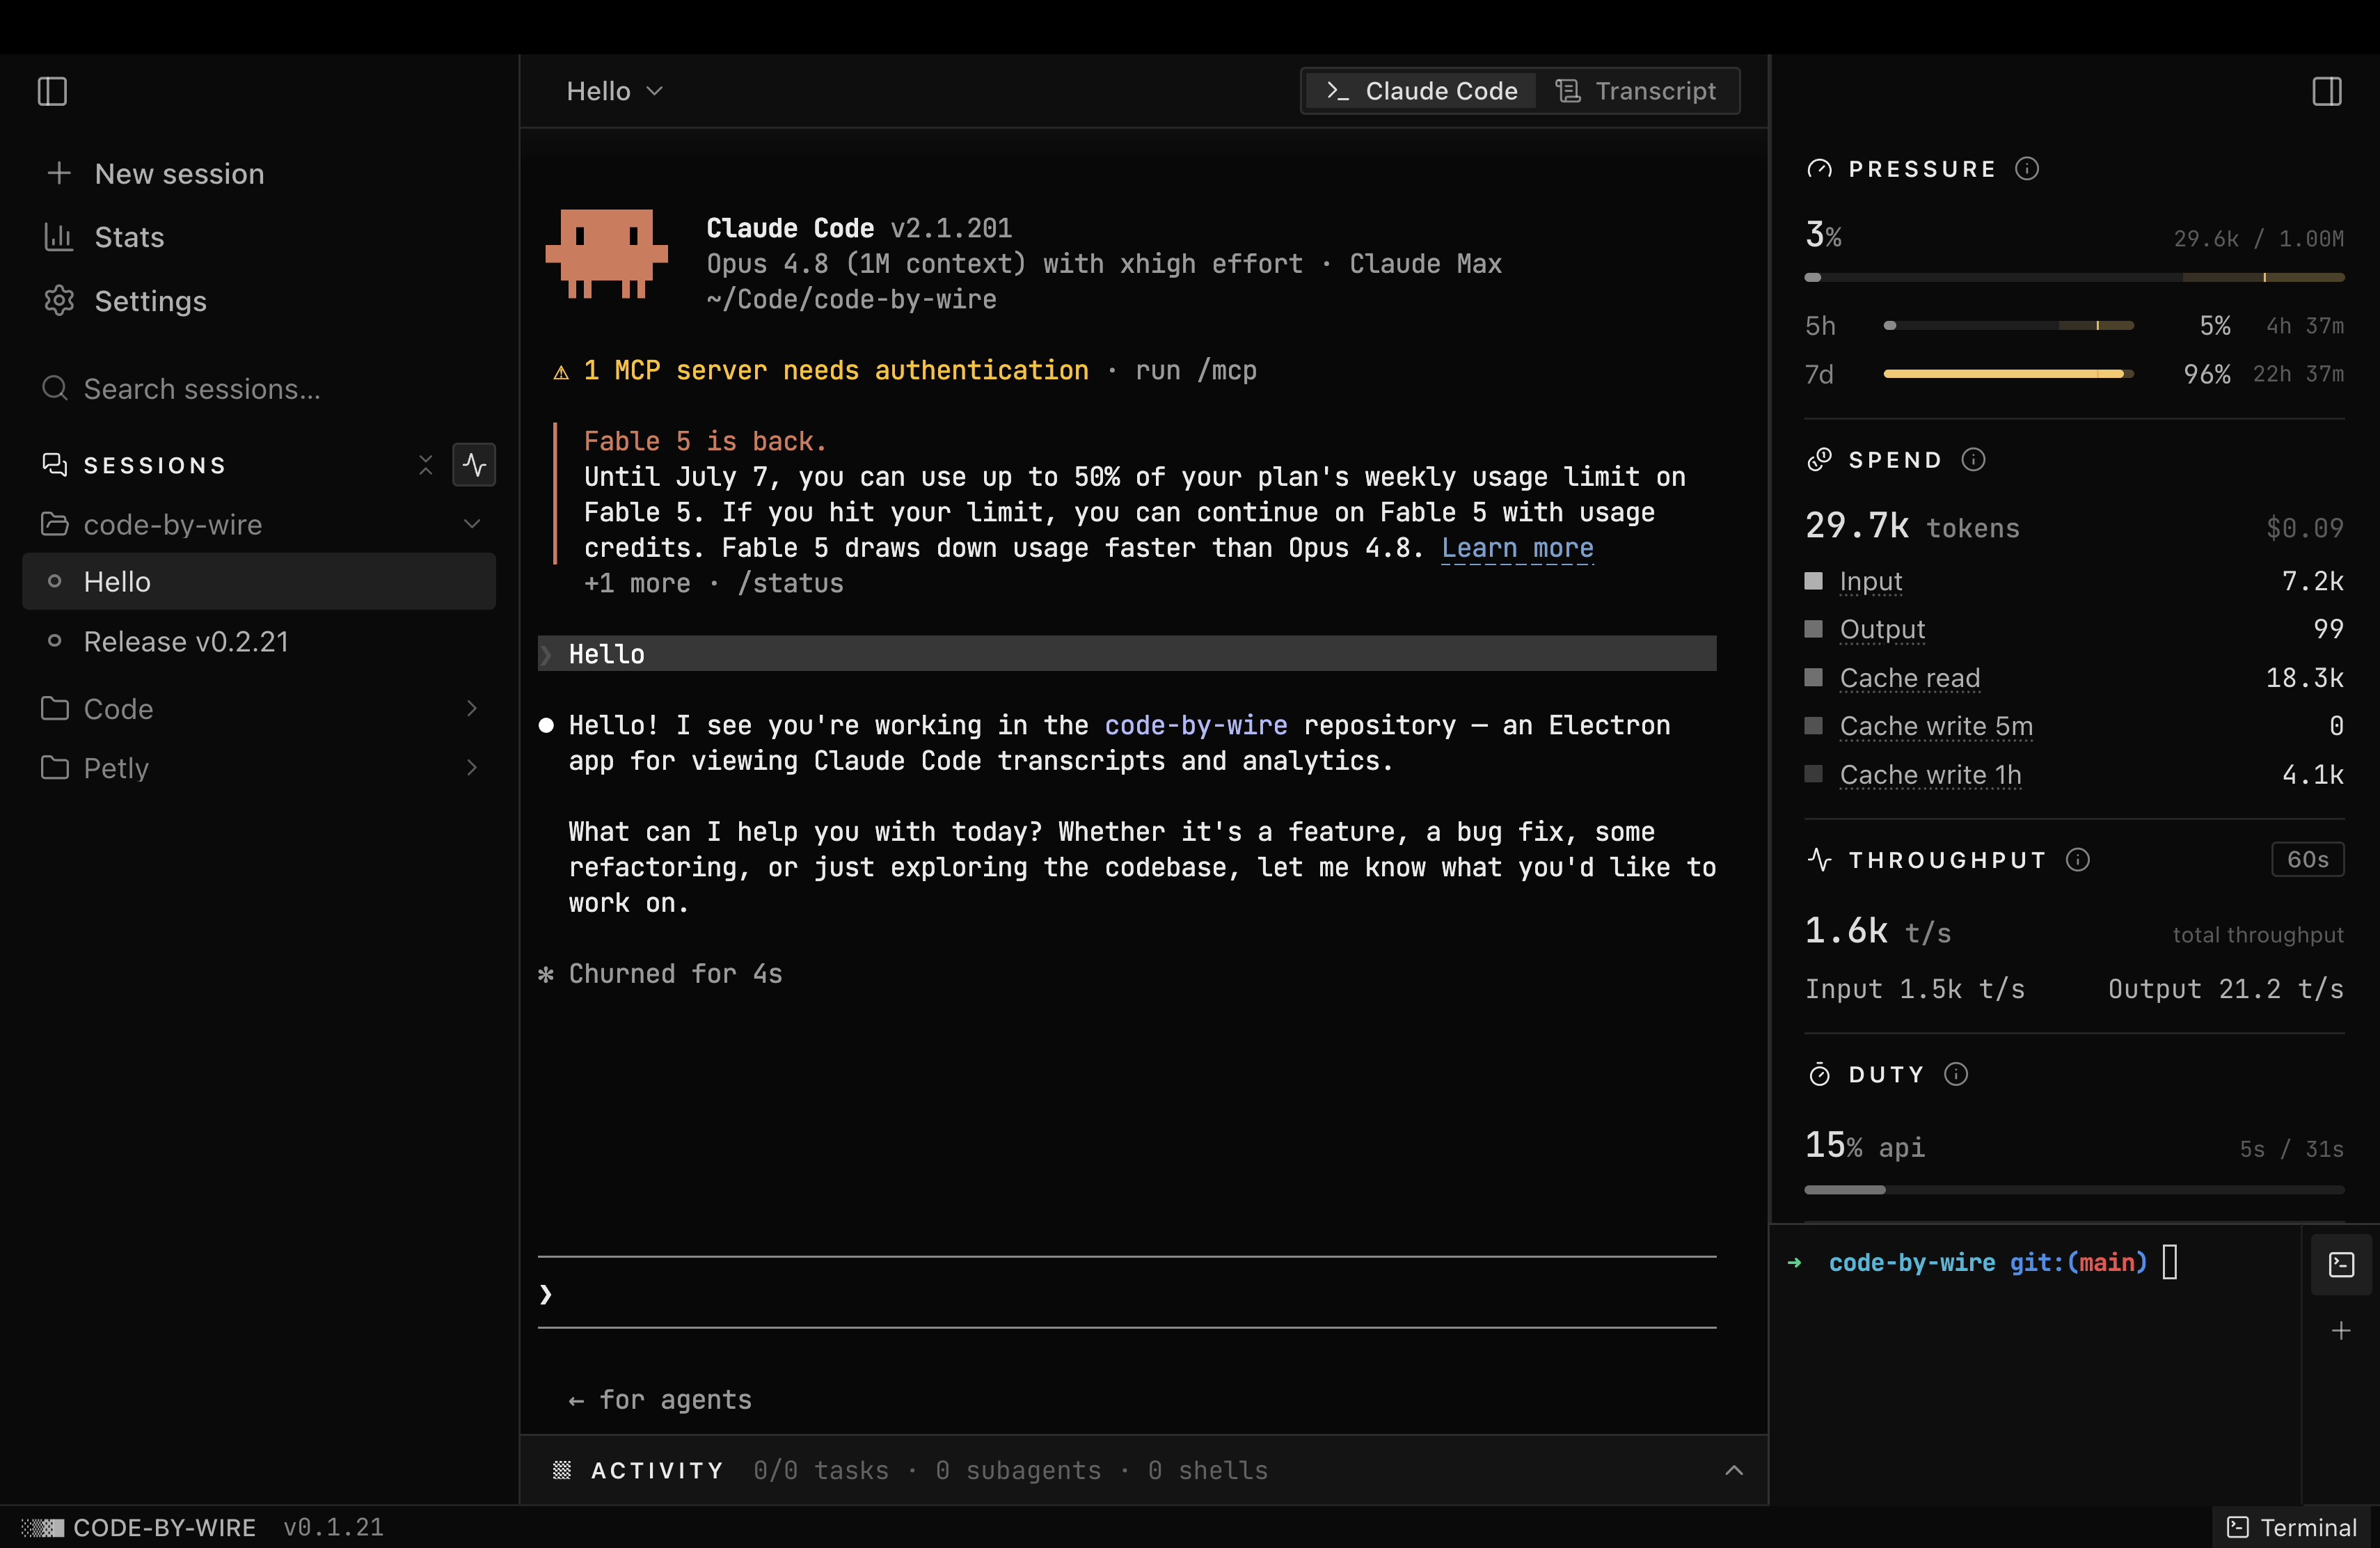
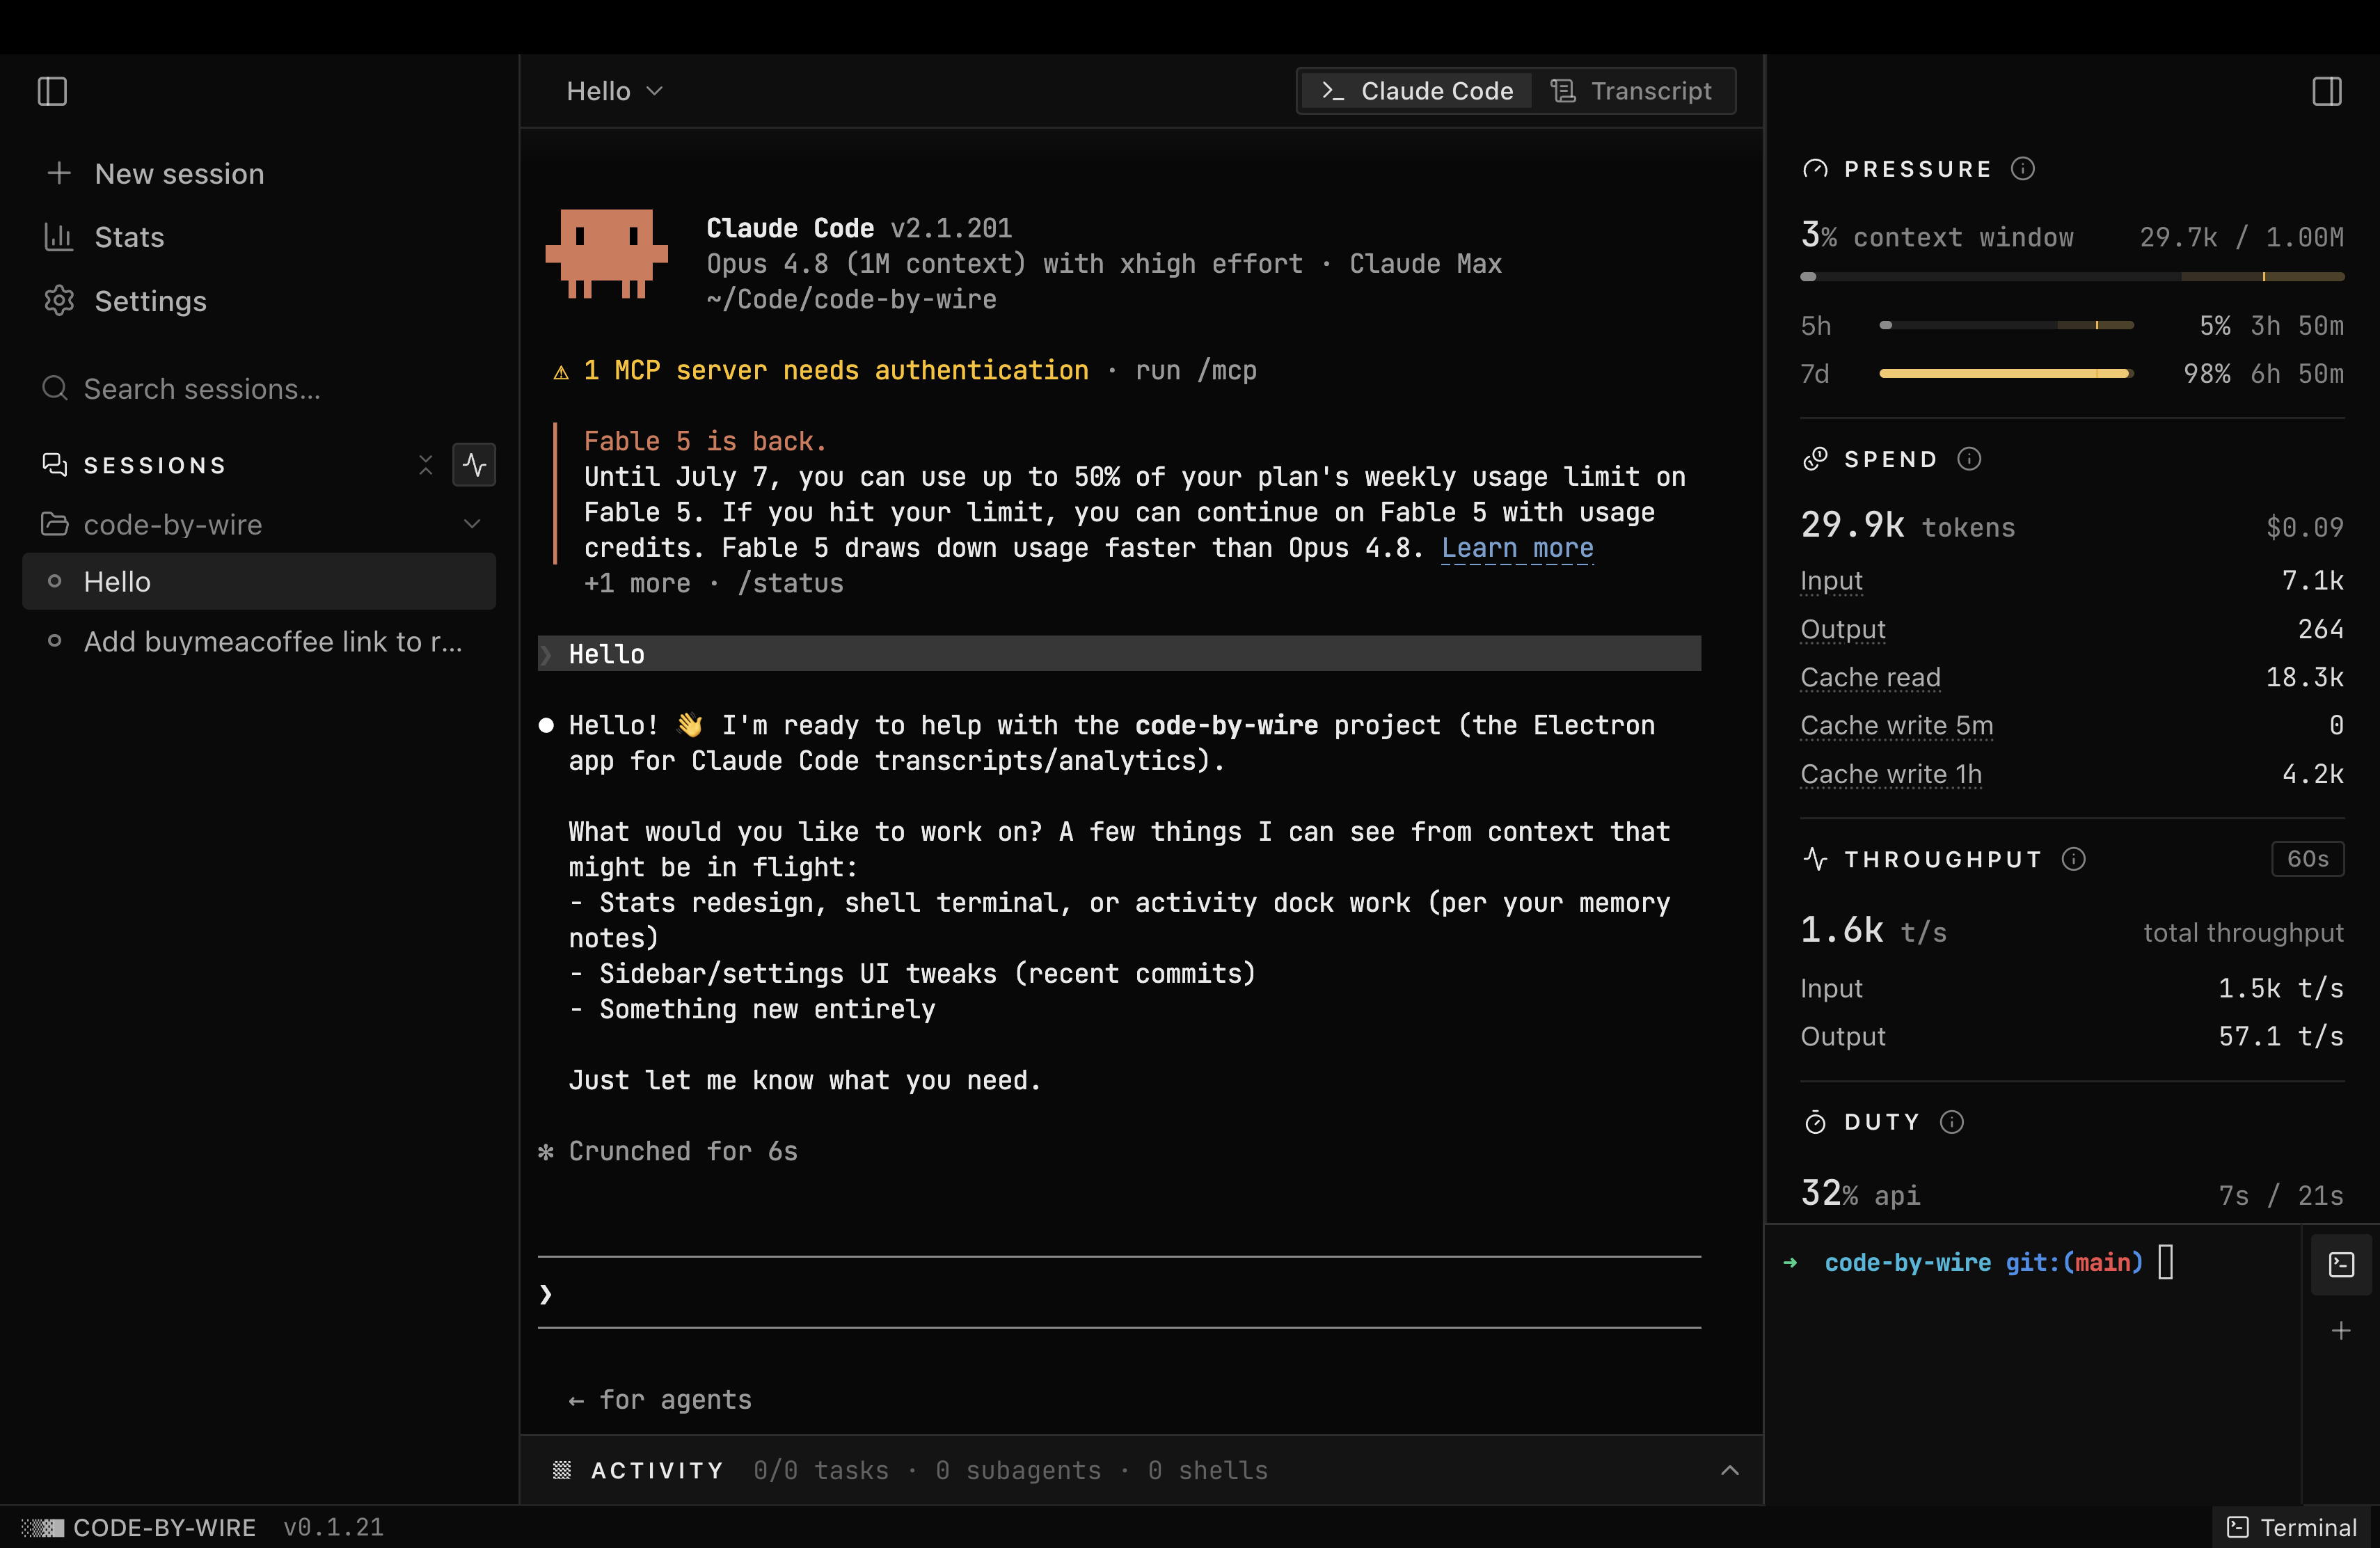
docs(readme): add Buy Me a Coffee button (#276)
* docs(readme): add Buy Me a Coffee button

* docs(readme): update screenshot

* docs(readme): use requested screenshot

diff --git a/README.md b/README.md
@@ -7,6 +7,8 @@ English | [简体中文](README.zh-CN.md)
 [![Latest release](https://img.shields.io/github/v/release/luojiahai/code-by-wire?style=flat-square)](https://github.com/luojiahai/code-by-wire/releases)
 [![Sponsor](https://img.shields.io/badge/Sponsor-%E2%9D%A4-db61a2?style=flat-square&logo=github&logoColor=white)](https://github.com/sponsors/luojiahai)
 
+<a href="https://buymeacoffee.com/luojiahai"><img src="https://img.buymeacoffee.com/button-api/?text=Buy me a coffee&emoji=☕&slug=luojiahai&button_colour=FFDD00&font_colour=000000&font_family=Cookie&outline_colour=000000&coffee_colour=ffffff" alt="Buy Me A Coffee" height="41" width="174"></a>
+
 Claude Code writes a rich trail to the `.claude` directory as it works: every
 turn, every token, every tool call, the running cost, the context window. The
 CLI shows you almost none of it.

diff --git a/README.zh-CN.md b/README.zh-CN.md
@@ -7,6 +7,8 @@
 [![Latest release](https://img.shields.io/github/v/release/luojiahai/code-by-wire?style=flat-square)](https://github.com/luojiahai/code-by-wire/releases)
 [![Sponsor](https://img.shields.io/badge/Sponsor-%E2%9D%A4-db61a2?style=flat-square&logo=github&logoColor=white)](https://github.com/sponsors/luojiahai)
 
+<a href="https://buymeacoffee.com/luojiahai"><img src="https://img.buymeacoffee.com/button-api/?text=Buy me a coffee&emoji=☕&slug=luojiahai&button_colour=FFDD00&font_colour=000000&font_family=Cookie&outline_colour=000000&coffee_colour=ffffff" alt="Buy Me A Coffee" height="41" width="174"></a>
+
 **本地 Claude Code 的驾驶舱。**
 
 Claude Code 一边工作，一边把丰富的轨迹写进 `.claude` 目录：每一个回合、每一个 token、每一次工具